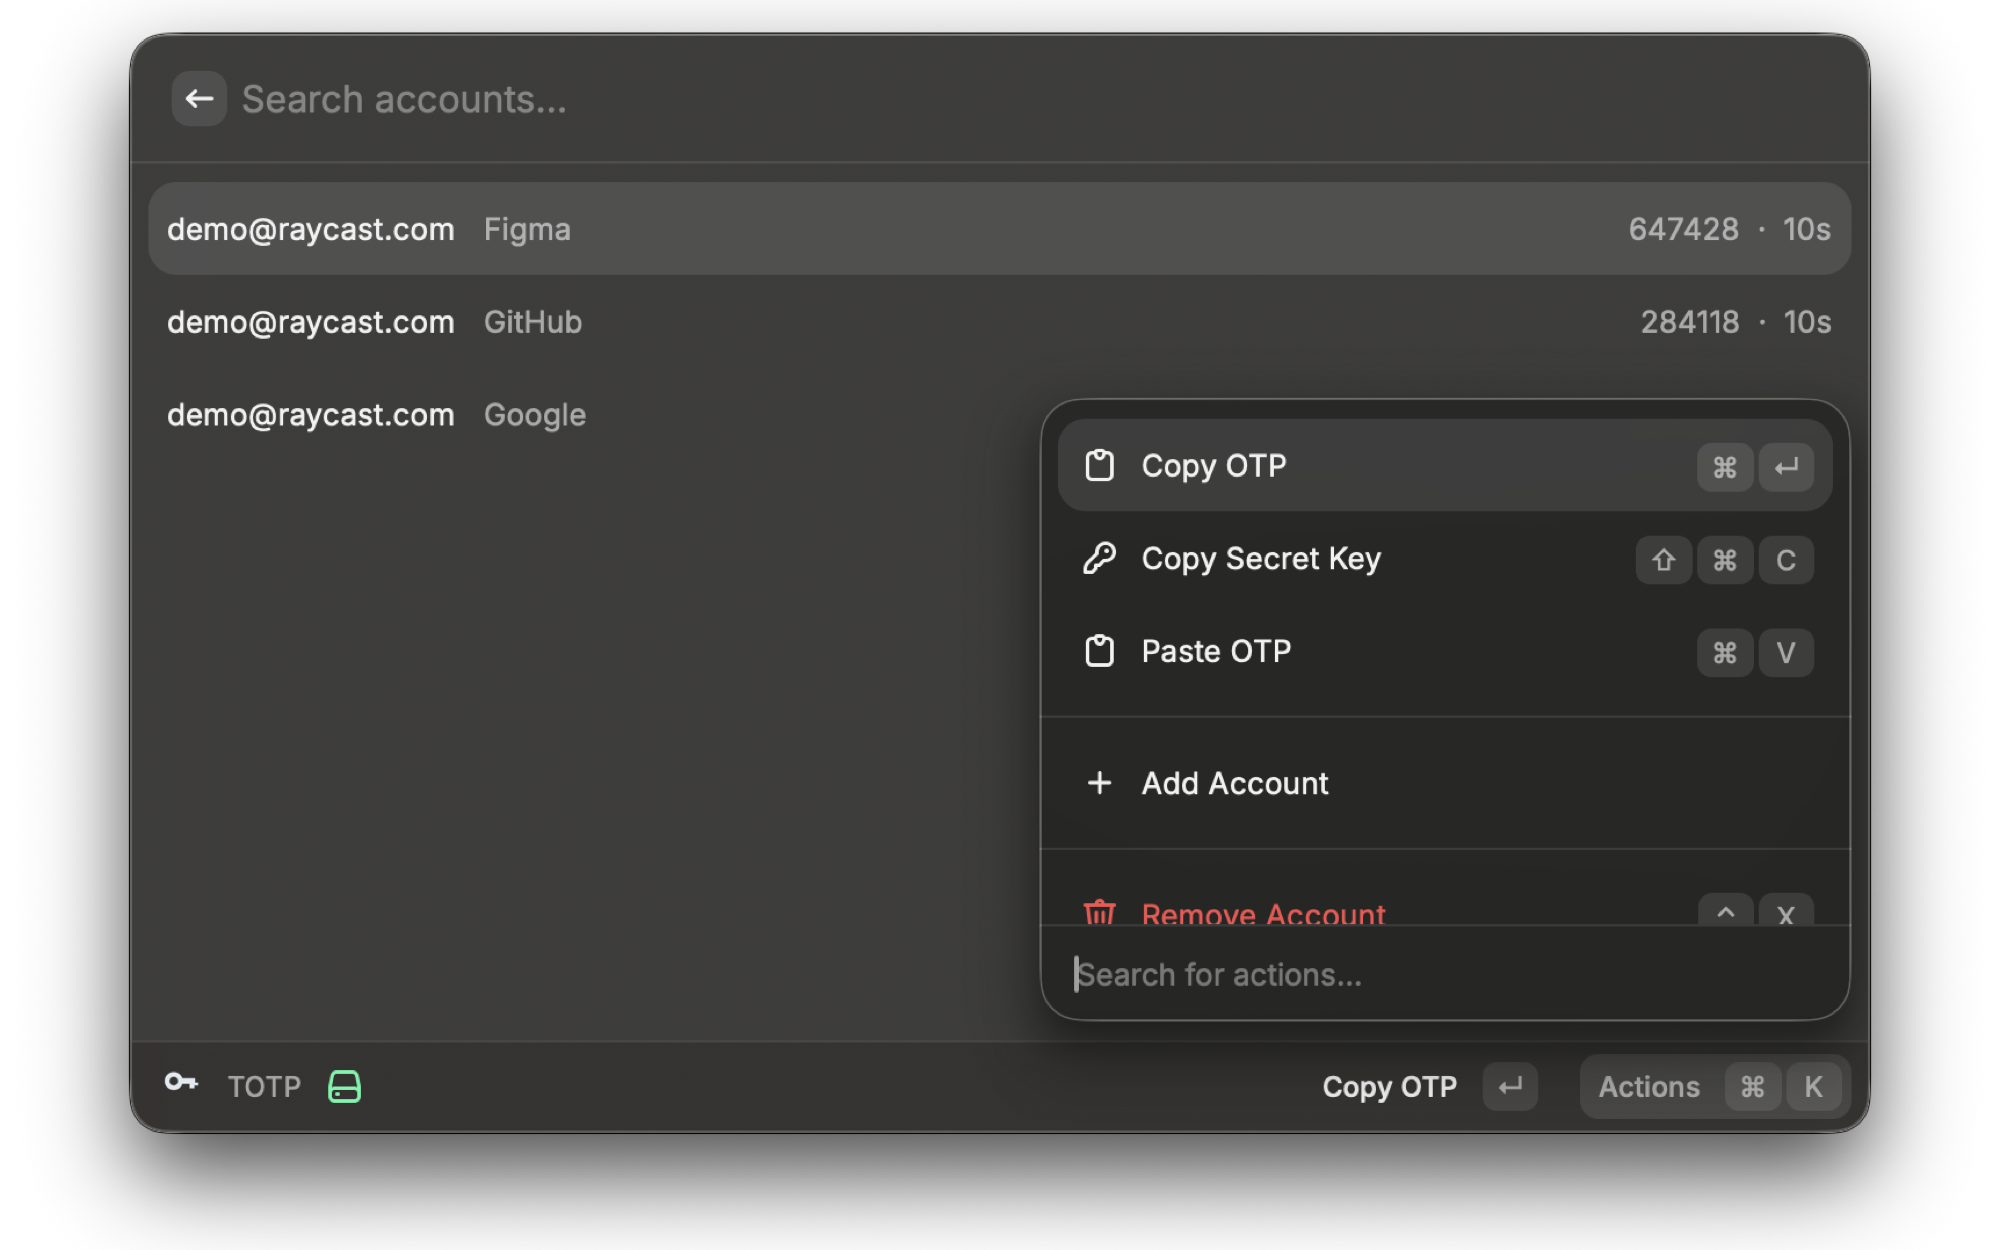
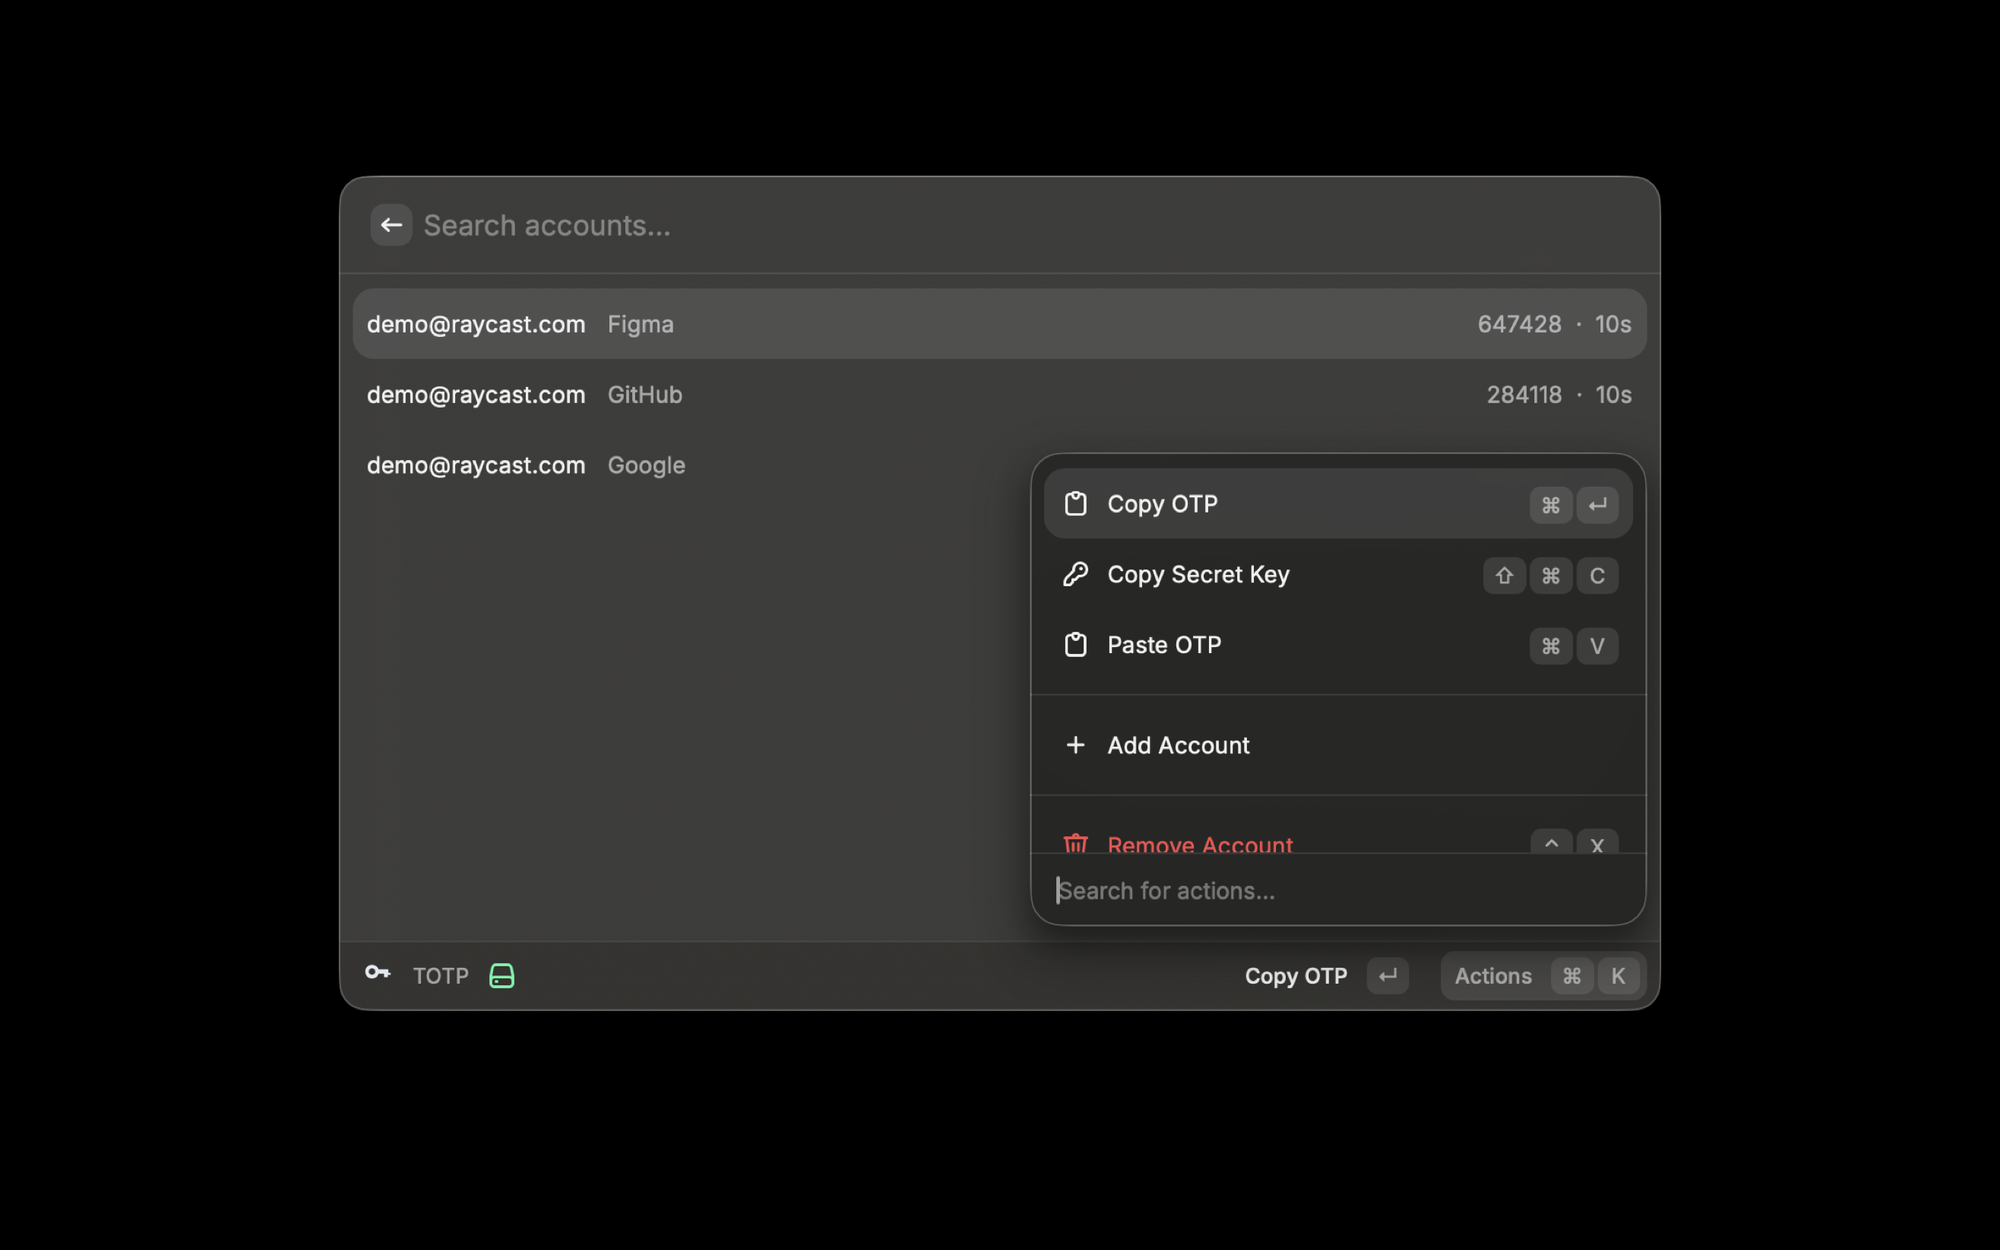
Fix store validation issues

diff --git a/src/backup.ts b/src/backup.ts
@@ -41,8 +41,15 @@ export async function importBackup(path: string, password: string): Promise<Acco
   }
 
   try {
-    const decipher = createDecipheriv("aes-256-gcm", deriveKey(password, Buffer.from(backup.salt, "base64")), Buffer.from(backup.iv, "base64"));
-    decipher.setAuthTag(Buffer.from(backup.tag, "base64"));
+    const tag = Buffer.from(backup.tag, "base64");
+    if (tag.length !== 16) throw new Error("Invalid backup authentication tag.");
+    const decipher = createDecipheriv(
+      "aes-256-gcm",
+      deriveKey(password, Buffer.from(backup.salt, "base64")),
+      Buffer.from(backup.iv, "base64"),
+      { authTagLength: 16 },
+    );
+    decipher.setAuthTag(tag);
     const plaintext = Buffer.concat([decipher.update(Buffer.from(backup.ciphertext, "base64")), decipher.final()]);
     return validateAccounts(JSON.parse(plaintext.toString("utf8")));
   } catch {

diff --git a/src/accounts.ts b/src/accounts.ts
@@ -29,8 +29,10 @@ export async function removeAccount(id: string): Promise<void> {
 
 export async function mergeAccounts(imported: Account[]): Promise<number> {
   const accounts = await loadAccounts();
-  const existing = new Set(accounts.map((account) => `${account.id}\0${account.name}\0${account.secret}`));
-  const additions = imported.filter((account) => !existing.has(`${account.id}\0${account.name}\0${account.secret}`));
+  const existing = new Set(accounts.map((account) => `${account.name}\0${account.issuer}\0${account.secret}`));
+  const additions = imported
+    .filter((account) => !existing.has(`${account.name}\0${account.issuer}\0${account.secret}`))
+    .map((account) => ({ ...account, id: randomUUID() }));
   await save([...accounts, ...additions]);
   return additions.length;
 }
